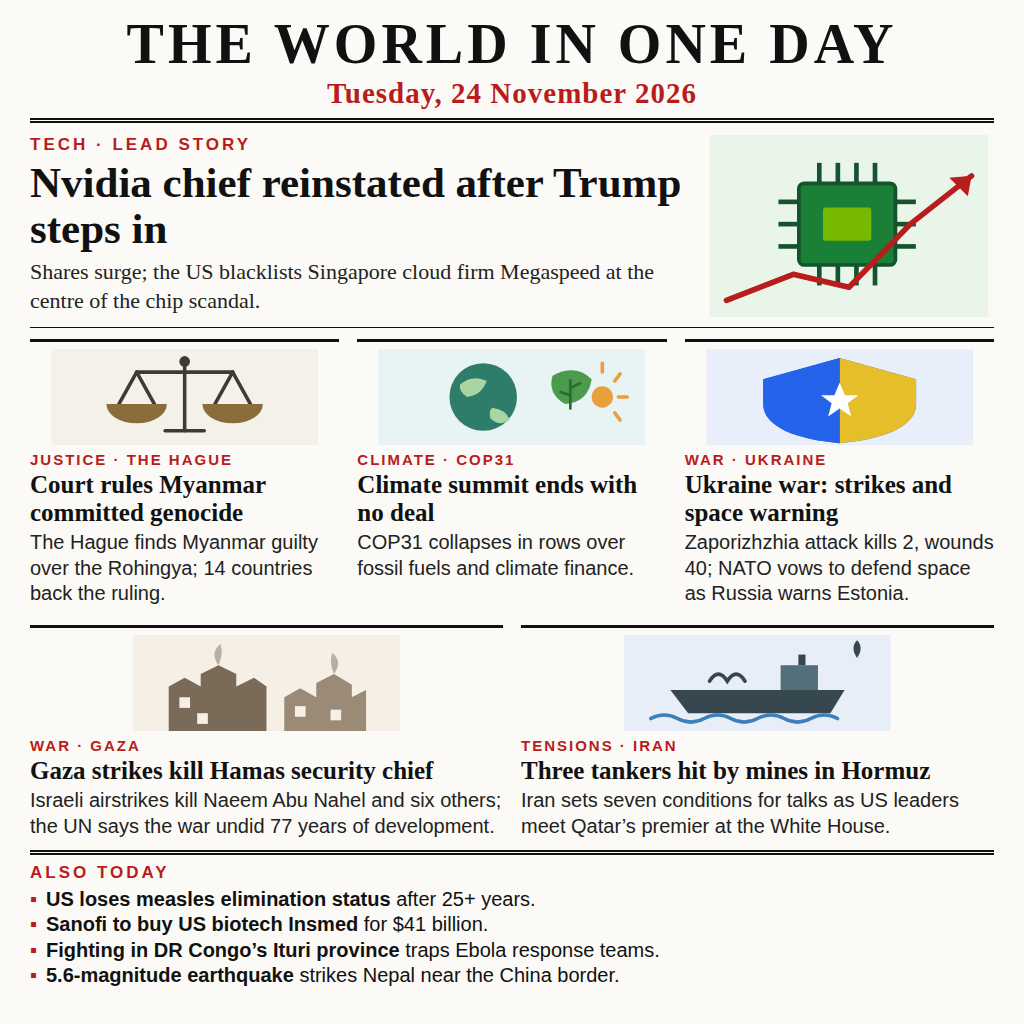
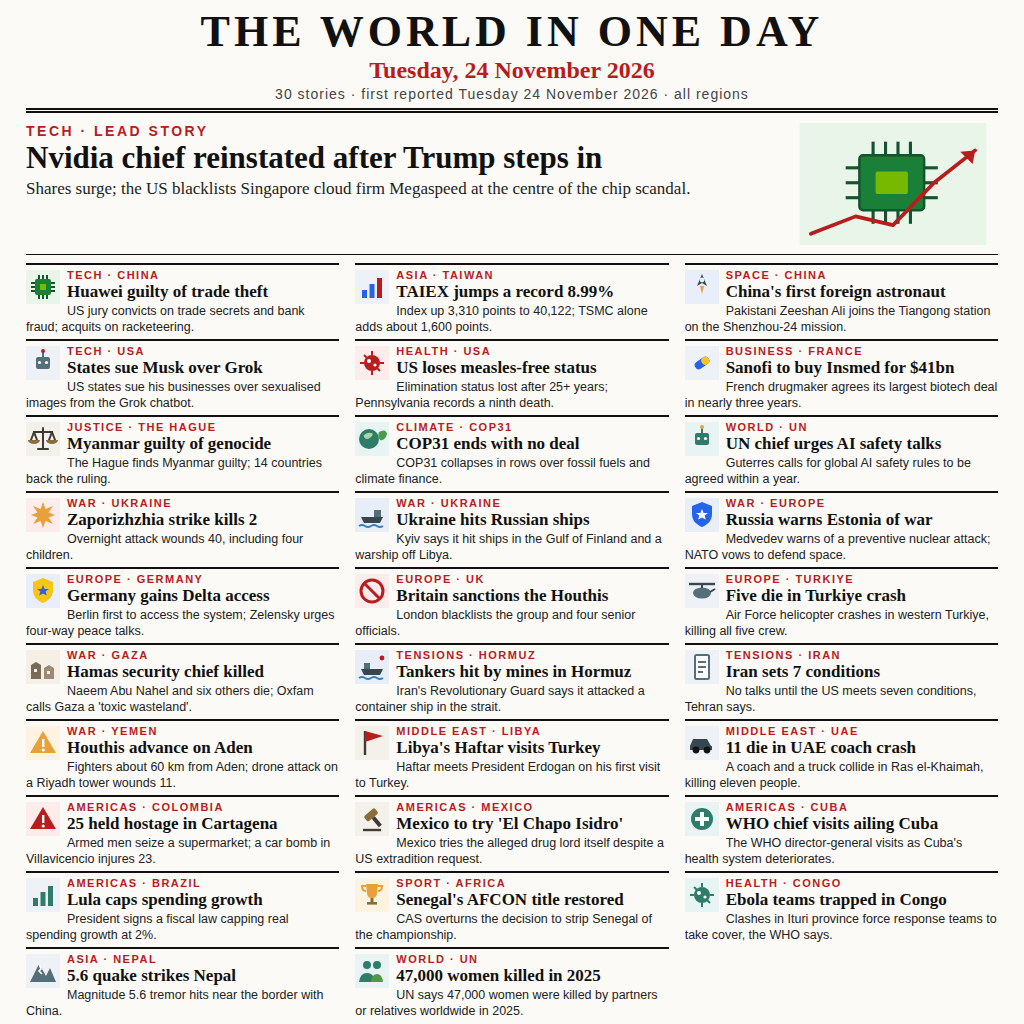
v2: 30 dated stories across all regions

Changed region(s): [[0.0312, 0.0, 0.9688, 1.0]]

diff --git a/page.html b/page.html
@@ -10,40 +10,28 @@
     font-family: Georgia, 'Times New Roman', serif;
     background: #fbfaf6;
     color: #111;
-    padding: 16px 30px 12px;
+    padding: 10px 26px 8px;
     display: flex;
     flex-direction: column;
   }
-  /* ---------- Masthead ---------- */
-  header { text-align: center; border-bottom: 5px double #111; padding-bottom: 8px; }
-  .name { font-size: 56px; font-weight: 900; letter-spacing: 4px; line-height: 1.02; }
-  .date { font-size: 29px; font-weight: 700; letter-spacing: 1px; margin-top: 4px; }
+  header { text-align: center; border-bottom: 5px double #111; padding-bottom: 6px; }
+  .name { font-size: 44px; font-weight: 900; letter-spacing: 4px; line-height: 1.02; }
+  .date { font-size: 24px; font-weight: 700; margin-top: 2px; }
   .date span { color: #b91c1c; }
-  /* ---------- Lead story ---------- */
-  .lead { display: flex; gap: 22px; padding: 12px 0 10px; border-bottom: 1px solid #111; }
+  .sub { font-family: Arial, Helvetica, sans-serif; font-size: 14px; letter-spacing: 1px; color: #444; margin-top: 2px; }
+  .lead { display: flex; gap: 18px; padding: 10px 0 9px; border-bottom: 1px solid #111; }
   .lead-text { flex: 1; }
-  .kicker { font-family: Arial, Helvetica, sans-serif; font-size: 17px; font-weight: 800; letter-spacing: 3px; color: #b91c1c; text-transform: uppercase; }
-  .lead h1 { font-size: 43px; line-height: 1.06; font-weight: 900; margin: 5px 0 7px; }
-  .lead p { font-size: 22px; line-height: 1.3; color: #222; }
-  .lead-art { width: 290px; height: 182px; flex: none; }
+  .kicker { font-family: Arial, Helvetica, sans-serif; font-size: 14px; font-weight: 800; letter-spacing: 2.5px; color: #b91c1c; text-transform: uppercase; }
+  .lead h1 { font-size: 31px; line-height: 1.05; font-weight: 900; margin: 3px 0 4px; }
+  .lead p { font-size: 17px; line-height: 1.28; color: #222; }
+  .lead-art { width: 210px; height: 122px; flex: none; }
   .lead-art svg { width: 100%; height: 100%; display: block; }
-  /* ---------- Story grid ---------- */
-  .grid { display: grid; grid-template-columns: repeat(6, 1fr); gap: 18px; padding: 11px 0 10px; border-bottom: 5px double #111; }
-  .card { border-top: 3px solid #111; padding-top: 7px; }
-  .card.w2 { grid-column: span 2; }
-  .card.w3 { grid-column: span 3; }
-  .card .art { width: 100%; height: 96px; margin-bottom: 6px; }
-  .card .art svg { width: 100%; height: 100%; display: block; }
-  .card .kicker { font-size: 15px; letter-spacing: 2px; }
-  .card h2 { font-size: 25px; line-height: 1.1; font-weight: 900; margin: 3px 0 4px; }
-  .card p { font-family: Arial, Helvetica, sans-serif; font-size: 20px; line-height: 1.28; color: #222; }
-  /* ---------- Bottom strip ---------- */
-  .strip { padding-top: 8px; }
-  .strip .label { font-family: Arial, Helvetica, sans-serif; font-size: 17px; font-weight: 800; letter-spacing: 3px; color: #b91c1c; text-transform: uppercase; margin-bottom: 4px; }
-  .strip ul { list-style: none; }
-  .strip li { font-family: Arial, Helvetica, sans-serif; font-size: 20px; line-height: 1.28; padding-left: 16px; position: relative; }
-  .strip li::before { content: "▪"; position: absolute; left: 0; color: #b91c1c; }
-  .strip li b { font-weight: 800; }
+  .grid { flex: 1; display: grid; grid-template-columns: repeat(3, 1fr); gap: 4px 16px; padding: 8px 0 0; align-content: space-between; }
+  .cell { border-top: 2px solid #111; padding-top: 4px; overflow: hidden; }
+  .cell .ic { float: left; width: 34px; height: 34px; margin: 1px 7px 2px 0; }
+  .cell .kick { font-family: Arial, Helvetica, sans-serif; font-size: 11px; font-weight: 800; letter-spacing: 1.5px; color: #b91c1c; text-transform: uppercase; }
+  .cell h3 { font-size: 17px; line-height: 1.12; font-weight: 900; margin: 1px 0 2px; }
+  .cell p { font-family: Arial, Helvetica, sans-serif; font-size: 12.5px; line-height: 1.28; color: #222; }
 </style>
 </head>
 <body>
@@ -51,6 +39,7 @@
 <header>
   <div class="name">THE WORLD IN ONE DAY</div>
   <div class="date"><span>Tuesday, 24 November 2026</span></div>
+  <div class="sub">30 stories &middot; first reported Tuesday 24 November 2026 &middot; all regions</div>
 </header>
 
 <section class="lead">
@@ -80,107 +69,151 @@
 </section>
 
 <section class="grid">
-  <article class="card w2">
-    <div class="art">
-      <svg viewBox="0 0 300 108" xmlns="http://www.w3.org/2000/svg" role="img" aria-label="Scales of justice">
-        <rect width="300" height="108" fill="#f4f1ea"/>
-        <g stroke="#3f3a33" stroke-width="4" fill="none" stroke-linecap="round">
-          <line x1="150" y1="14" x2="150" y2="92"/>
-          <line x1="96" y1="26" x2="204" y2="26"/>
-          <line x1="96" y1="26" x2="76" y2="62"/><line x1="96" y1="26" x2="116" y2="62"/>
-          <line x1="204" y1="26" x2="184" y2="62"/><line x1="204" y1="26" x2="224" y2="62"/>
-          <line x1="128" y1="92" x2="172" y2="92"/>
-        </g>
-        <path d="M62 62 A22 14 0 0 0 130 62 Z" fill="#8a6d3b"/>
-        <path d="M170 62 A22 14 0 0 0 238 62 Z" fill="#8a6d3b"/>
-        <circle cx="150" cy="14" r="6" fill="#3f3a33"/>
-      </svg>
-    </div>
-    <div class="kicker">Justice &middot; The Hague</div>
-    <h2>Court rules Myanmar committed genocide</h2>
-    <p>The Hague finds Myanmar guilty over the Rohingya; 14 countries back the ruling.</p>
+  <article class="cell"><svg class="ic" viewBox="0 0 34 34" xmlns="http://www.w3.org/2000/svg"><rect width="34" height="34" fill="#e9f5e9"/><rect x="9" y="9" width="16" height="16" rx="2" fill="#1a7f37"/><rect x="14" y="14" width="6" height="6" fill="#76b900"/><g stroke="#14532d" stroke-width="2"><line x1="13" y1="9" x2="13" y2="5"/><line x1="17" y1="9" x2="17" y2="5"/><line x1="21" y1="9" x2="21" y2="5"/><line x1="13" y1="25" x2="13" y2="29"/><line x1="17" y1="25" x2="17" y2="29"/><line x1="21" y1="25" x2="21" y2="29"/><line x1="9" y1="13" x2="5" y2="13"/><line x1="9" y1="17" x2="5" y2="17"/><line x1="9" y1="21" x2="5" y2="21"/><line x1="25" y1="13" x2="29" y2="13"/><line x1="25" y1="17" x2="29" y2="17"/><line x1="25" y1="21" x2="29" y2="21"/></g></svg>
+    <div class="kick">TECH · CHINA</div>
+    <h3>Huawei guilty of trade theft</h3>
+    <p>US jury convicts on trade secrets and bank fraud; acquits on racketeering.</p>
   </article>
-
-  <article class="card w2">
-    <div class="art">
-      <svg viewBox="0 0 300 108" xmlns="http://www.w3.org/2000/svg" role="img" aria-label="Globe with a leaf">
-        <rect width="300" height="108" fill="#e8f3f3"/>
-        <circle cx="118" cy="54" r="38" fill="#2e7d6b"/>
-        <path d="M92 40 q14 -12 30 -4 q-6 16 -22 18 q-10 -6 -8 -14z" fill="#a8d5a2"/>
-        <path d="M128 66 q16 2 20 14 q-12 8 -22 -2 q-2 -8 2 -12z" fill="#a8d5a2"/>
-        <path d="M196 30 q26 -14 44 4 q-4 26 -30 28 q-20 -12 -14 -32z" fill="#4c9a4c"/>
-        <path d="M216 34 l0 34 M216 44 l12 -6 M216 52 l-12 -4" stroke="#2f6b2f" stroke-width="3" fill="none"/>
-        <g stroke="#e8a13a" stroke-width="4" stroke-linecap="round">
-          <line x1="252" y1="16" x2="252" y2="26"/><line x1="272" y1="28" x2="266" y2="36"/>
-          <line x1="280" y1="54" x2="270" y2="54"/><line x1="272" y1="80" x2="266" y2="72"/>
-        </g>
-        <circle cx="252" cy="54" r="12" fill="#e8a13a"/>
-      </svg>
-    </div>
-    <div class="kicker">Climate &middot; COP31</div>
-    <h2>Climate summit ends with no deal</h2>
+  <article class="cell"><svg class="ic" viewBox="0 0 34 34" xmlns="http://www.w3.org/2000/svg"><rect width="34" height="34" fill="#eef2f7"/><rect x="7" y="20" width="5" height="8" fill="#2563eb"/><rect x="14.5" y="14" width="5" height="14" fill="#2563eb"/><rect x="22" y="8" width="5" height="20" fill="#b91c1c"/></svg>
+    <div class="kick">ASIA · TAIWAN</div>
+    <h3>TAIEX jumps a record 8.99%</h3>
+    <p>Index up 3,310 points to 40,122; TSMC alone adds about 1,600 points.</p>
+  </article>
+  <article class="cell"><svg class="ic" viewBox="0 0 34 34" xmlns="http://www.w3.org/2000/svg"><rect width="34" height="34" fill="#e9effa"/><path d="M17 4 L22 16 L17 13 L12 16 Z" fill="#37474f"/><circle cx="17" cy="10" r="2.4" fill="#e8eef7"/><path d="M15 16 L17 24 L19 16 Z" fill="#e8a13a"/></svg>
+    <div class="kick">SPACE · CHINA</div>
+    <h3>China's first foreign astronaut</h3>
+    <p>Pakistani Zeeshan Ali joins the Tiangong station on the Shenzhou-24 mission.</p>
+  </article>
+  <article class="cell"><svg class="ic" viewBox="0 0 34 34" xmlns="http://www.w3.org/2000/svg"><rect width="34" height="34" fill="#eef2f7"/><rect x="10" y="11" width="14" height="12" rx="2" fill="#546e7a"/><line x1="17" y1="11" x2="17" y2="6" stroke="#546e7a" stroke-width="2"/><circle cx="17" cy="5" r="2" fill="#b91c1c"/><circle cx="13.5" cy="16.5" r="1.6" fill="#fff"/><circle cx="20.5" cy="16.5" r="1.6" fill="#fff"/></svg>
+    <div class="kick">TECH · USA</div>
+    <h3>States sue Musk over Grok</h3>
+    <p>US states sue his businesses over sexualised images from the Grok chatbot.</p>
+  </article>
+  <article class="cell"><svg class="ic" viewBox="0 0 34 34" xmlns="http://www.w3.org/2000/svg"><rect width="34" height="34" fill="#fdecec"/><circle cx="17" cy="17" r="8" fill="#b91c1c"/><g stroke="#b91c1c" stroke-width="2"><line x1="17" y1="5" x2="17" y2="9"/><line x1="17" y1="25" x2="17" y2="29"/><line x1="5" y1="17" x2="9" y2="17"/><line x1="25" y1="17" x2="29" y2="17"/><line x1="9" y1="9" x2="12" y2="12"/><line x1="22" y1="22" x2="25" y2="25"/></g><circle cx="14" cy="15" r="2" fill="#fff"/><circle cx="20" cy="19" r="1.6" fill="#fff"/></svg>
+    <div class="kick">HEALTH · USA</div>
+    <h3>US loses measles-free status</h3>
+    <p>Elimination status lost after 25+ years; Pennsylvania records a ninth death.</p>
+  </article>
+  <article class="cell"><svg class="ic" viewBox="0 0 34 34" xmlns="http://www.w3.org/2000/svg"><rect width="34" height="34" fill="#eef2f7"/><g transform="rotate(-35 17 17)"><rect x="9" y="13" width="16" height="8" rx="4" fill="#2563eb"/><rect x="17" y="13" width="8" height="8" rx="4" fill="#f5c518"/></g></svg>
+    <div class="kick">BUSINESS · FRANCE</div>
+    <h3>Sanofi to buy Insmed for $41bn</h3>
+    <p>French drugmaker agrees its largest biotech deal in nearly three years.</p>
+  </article>
+  <article class="cell"><svg class="ic" viewBox="0 0 34 34" xmlns="http://www.w3.org/2000/svg"><rect width="34" height="34" fill="#f4f1ea"/><g stroke="#3f3a33" stroke-width="2" fill="none" stroke-linecap="round"><line x1="17" y1="6" x2="17" y2="27"/><line x1="8" y1="10" x2="26" y2="10"/><line x1="8" y1="10" x2="5" y2="18"/><line x1="8" y1="10" x2="11" y2="18"/><line x1="26" y1="10" x2="23" y2="18"/><line x1="26" y1="10" x2="29" y2="18"/><line x1="12" y1="27" x2="22" y2="27"/></g><path d="M2 18 A4.5 3 0 0 0 14 18 Z" fill="#8a6d3b"/><path d="M20 18 A4.5 3 0 0 0 32 18 Z" fill="#8a6d3b"/></svg>
+    <div class="kick">JUSTICE · THE HAGUE</div>
+    <h3>Myanmar guilty of genocide</h3>
+    <p>The Hague finds Myanmar guilty; 14 countries back the ruling.</p>
+  </article>
+  <article class="cell"><svg class="ic" viewBox="0 0 34 34" xmlns="http://www.w3.org/2000/svg"><rect width="34" height="34" fill="#e8f3f3"/><circle cx="14" cy="17" r="10" fill="#2e7d6b"/><path d="M9 13 q5 -4 9 -1 q-2 5 -7 5 q-3 -2 -2 -4z" fill="#a8d5a2"/><path d="M24 10 q7 -4 8 2 q-2 7 -7 6 q-3 -4 -1 -8z" fill="#4c9a4c"/></svg>
+    <div class="kick">CLIMATE · COP31</div>
+    <h3>COP31 ends with no deal</h3>
     <p>COP31 collapses in rows over fossil fuels and climate finance.</p>
   </article>
-
-  <article class="card w2">
-    <div class="art">
-      <svg viewBox="0 0 300 108" xmlns="http://www.w3.org/2000/svg" role="img" aria-label="Shield with a star">
-        <rect width="300" height="108" fill="#e9effa"/>
-        <path d="M150 10 L236 34 V62 C236 88 198 102 150 106 C102 102 64 88 64 62 V34 Z" fill="#2563eb"/>
-        <path d="M150 10 L236 34 V62 C236 88 198 102 150 106 Z" fill="#f5c518" opacity="0.92"/>
-        <path d="M150 10 L150 106 C102 102 64 88 64 62 V34 Z" fill="#2563eb"/>
-        <polygon points="150,38 156,52 171,52 159,61 163,76 150,67 137,76 141,61 129,52 144,52" fill="#ffffff"/>
-      </svg>
-    </div>
-    <div class="kicker">War &middot; Ukraine</div>
-    <h2>Ukraine war: strikes and space warning</h2>
-    <p>Zaporizhzhia attack kills 2, wounds 40; NATO vows to defend space as Russia warns Estonia.</p>
+  <article class="cell"><svg class="ic" viewBox="0 0 34 34" xmlns="http://www.w3.org/2000/svg"><rect width="34" height="34" fill="#e8f3f3"/><rect x="10" y="11" width="14" height="12" rx="2" fill="#2e7d6b"/><line x1="17" y1="11" x2="17" y2="6" stroke="#2e7d6b" stroke-width="2"/><circle cx="17" cy="5" r="2" fill="#e8a13a"/><circle cx="13.5" cy="16.5" r="1.6" fill="#fff"/><circle cx="20.5" cy="16.5" r="1.6" fill="#fff"/></svg>
+    <div class="kick">WORLD · UN</div>
+    <h3>UN chief urges AI safety talks</h3>
+    <p>Guterres calls for global AI safety rules to be agreed within a year.</p>
   </article>
-
-  <article class="card w3">
-    <div class="art">
-      <svg viewBox="0 0 300 108" xmlns="http://www.w3.org/2000/svg" role="img" aria-label="Damaged buildings with smoke">
-        <rect width="300" height="108" fill="#f5efe6"/>
-        <path d="M40 108 V58 L58 48 L76 58 V44 L96 34 L116 44 V58 L136 48 L150 58 V108 Z" fill="#7a6a58"/>
-        <path d="M170 108 V70 L188 60 L206 70 V54 L226 44 L246 56 V70 L262 62 V108 Z" fill="#9a8a76"/>
-        <path d="M96 34 q-10 -14 2 -24 q4 10 -2 24z M226 44 q10 -14 -2 -24 q-4 10 2 24z" fill="#b8b0a2"/>
-        <rect x="52" y="70" width="12" height="12" fill="#f5efe6"/>
-        <rect x="72" y="88" width="12" height="12" fill="#f5efe6"/>
-        <rect x="182" y="80" width="12" height="12" fill="#f5efe6"/>
-        <rect x="222" y="84" width="12" height="12" fill="#f5efe6"/>
-      </svg>
-    </div>
-    <div class="kicker">War &middot; Gaza</div>
-    <h2>Gaza strikes kill Hamas security chief</h2>
-    <p>Israeli airstrikes kill Naeem Abu Nahel and six others; the UN says the war undid 77 years of development.</p>
+  <article class="cell"><svg class="ic" viewBox="0 0 34 34" xmlns="http://www.w3.org/2000/svg"><rect width="34" height="34" fill="#fdecec"/><polygon points="17,4 19.5,11 27,8 22.5,14.5 29,17 22.5,19.5 27,26 19.5,23 17,30 14.5,23 7,26 11.5,19.5 5,17 11.5,14.5 7,8 14.5,11" fill="#e8a13a"/></svg>
+    <div class="kick">WAR · UKRAINE</div>
+    <h3>Zaporizhzhia strike kills 2</h3>
+    <p>Overnight attack wounds 40, including four children.</p>
   </article>
-
-  <article class="card w3">
-    <div class="art">
-      <svg viewBox="0 0 300 108" xmlns="http://www.w3.org/2000/svg" role="img" aria-label="Oil tanker on waves">
-        <rect width="300" height="108" fill="#e8eef7"/>
-        <path d="M52 62 L248 62 L232 88 L72 88 Z" fill="#37474f"/>
-        <rect x="176" y="34" width="42" height="28" fill="#546e7a"/>
-        <rect x="196" y="22" width="8" height="12" fill="#37474f"/>
-        <path d="M96 52 q10 -16 20 0 q10 -16 20 0" fill="none" stroke="#37474f" stroke-width="4" stroke-linecap="round"/>
-        <path d="M30 94 q15 -8 30 0 t30 0 t30 0 t30 0 t30 0 t30 0 t30 0" fill="none" stroke="#3f7fb8" stroke-width="4" stroke-linecap="round"/>
-        <path d="M262 26 q8 -12 0 -20 q-8 8 0 20z" fill="#37474f"/>
-      </svg>
-    </div>
-    <div class="kicker">Tensions &middot; Iran</div>
-    <h2>Three tankers hit by mines in Hormuz</h2>
-    <p>Iran sets seven conditions for talks as US leaders meet Qatar&rsquo;s premier at the White House.</p>
+  <article class="cell"><svg class="ic" viewBox="0 0 34 34" xmlns="http://www.w3.org/2000/svg"><rect width="34" height="34" fill="#e8eef7"/><path d="M6 19 L28 19 L25 25 L9 25 Z" fill="#37474f"/><rect x="19" y="12" width="7" height="7" fill="#546e7a"/><path d="M4 28 q3 -2 6 0 t6 0 t6 0 t6 0" fill="none" stroke="#3f7fb8" stroke-width="2"/></svg>
+    <div class="kick">WAR · UKRAINE</div>
+    <h3>Ukraine hits Russian ships</h3>
+    <p>Kyiv says it hit ships in the Gulf of Finland and a warship off Libya.</p>
   </article>
-</section>
-
-<section class="strip">
-  <div class="label">Also Today</div>
-  <ul>
-    <li><b>US loses measles elimination status</b> after 25+ years.</li>
-    <li><b>Sanofi to buy US biotech Insmed</b> for $41 billion.</li>
-    <li><b>Fighting in DR Congo&rsquo;s Ituri province</b> traps Ebola response teams.</li>
-    <li><b>5.6-magnitude earthquake</b> strikes Nepal near the China border.</li>
-  </ul>
+  <article class="cell"><svg class="ic" viewBox="0 0 34 34" xmlns="http://www.w3.org/2000/svg"><rect width="34" height="34" fill="#e9effa"/><path d="M17 4 L27 8 V16 C27 23 22 27 17 29 C12 27 7 23 7 16 V8 Z" fill="#2563eb"/><polygon points="17,11 18.6,15 23,15 19.6,17.6 20.8,21.6 17,19.4 13.2,21.6 14.4,17.6 11,15 15.4,15" fill="#fff"/></svg>
+    <div class="kick">WAR · EUROPE</div>
+    <h3>Russia warns Estonia of war</h3>
+    <p>Medvedev warns of a preventive nuclear attack; NATO vows to defend space.</p>
+  </article>
+  <article class="cell"><svg class="ic" viewBox="0 0 34 34" xmlns="http://www.w3.org/2000/svg"><rect width="34" height="34" fill="#e9effa"/><path d="M17 4 L27 8 V16 C27 23 22 27 17 29 C12 27 7 23 7 16 V8 Z" fill="#f5c518"/><polygon points="17,11 18.6,15 23,15 19.6,17.6 20.8,21.6 17,19.4 13.2,21.6 14.4,17.6 11,15 15.4,15" fill="#2563eb"/></svg>
+    <div class="kick">EUROPE · GERMANY</div>
+    <h3>Germany gains Delta access</h3>
+    <p>Berlin first to access the system; Zelensky urges four-way peace talks.</p>
+  </article>
+  <article class="cell"><svg class="ic" viewBox="0 0 34 34" xmlns="http://www.w3.org/2000/svg"><rect width="34" height="34" fill="#fdecec"/><circle cx="17" cy="17" r="11" fill="none" stroke="#b91c1c" stroke-width="3"/><line x1="9" y1="9" x2="25" y2="25" stroke="#b91c1c" stroke-width="3"/></svg>
+    <div class="kick">EUROPE · UK</div>
+    <h3>Britain sanctions the Houthis</h3>
+    <p>London blacklists the group and four senior officials.</p>
+  </article>
+  <article class="cell"><svg class="ic" viewBox="0 0 34 34" xmlns="http://www.w3.org/2000/svg"><rect width="34" height="34" fill="#eef2f7"/><ellipse cx="17" cy="19" rx="9" ry="5.5" fill="#546e7a"/><line x1="4" y1="10" x2="30" y2="10" stroke="#37474f" stroke-width="2.4"/><line x1="17" y1="10" x2="17" y2="14" stroke="#37474f" stroke-width="2"/><line x1="25" y1="18" x2="30" y2="15" stroke="#37474f" stroke-width="2"/></svg>
+    <div class="kick">EUROPE · TURKIYE</div>
+    <h3>Five die in Turkiye crash</h3>
+    <p>Air Force helicopter crashes in western Turkiye, killing all five crew.</p>
+  </article>
+  <article class="cell"><svg class="ic" viewBox="0 0 34 34" xmlns="http://www.w3.org/2000/svg"><rect width="34" height="34" fill="#f5efe6"/><path d="M5 29 V15 L10 12 L15 15 V29 Z" fill="#7a6a58"/><path d="M18 29 V18 L23 15 L28 18 V29 Z" fill="#9a8a76"/><rect x="8" y="19" width="3" height="3" fill="#f5efe6"/><rect x="21" y="21" width="3" height="3" fill="#f5efe6"/></svg>
+    <div class="kick">WAR · GAZA</div>
+    <h3>Hamas security chief killed</h3>
+    <p>Naeem Abu Nahel and six others die; Oxfam calls Gaza a 'toxic wasteland'.</p>
+  </article>
+  <article class="cell"><svg class="ic" viewBox="0 0 34 34" xmlns="http://www.w3.org/2000/svg"><rect width="34" height="34" fill="#e8eef7"/><path d="M6 19 L28 19 L25 25 L9 25 Z" fill="#37474f"/><rect x="9" y="13" width="6" height="6" fill="#546e7a"/><path d="M4 28 q3 -2 6 0 t6 0 t6 0 t6 0" fill="none" stroke="#3f7fb8" stroke-width="2"/><circle cx="27" cy="8" r="2.4" fill="#b91c1c"/></svg>
+    <div class="kick">TENSIONS · HORMUZ</div>
+    <h3>Tankers hit by mines in Hormuz</h3>
+    <p>Iran's Revolutionary Guard says it attacked a container ship in the strait.</p>
+  </article>
+  <article class="cell"><svg class="ic" viewBox="0 0 34 34" xmlns="http://www.w3.org/2000/svg"><rect width="34" height="34" fill="#eef2f7"/><rect x="10" y="5" width="14" height="24" rx="1.5" fill="#fff" stroke="#546e7a" stroke-width="2"/><line x1="13" y1="12" x2="21" y2="12" stroke="#546e7a" stroke-width="2"/><line x1="13" y1="17" x2="21" y2="17" stroke="#546e7a" stroke-width="2"/><line x1="13" y1="22" x2="18" y2="22" stroke="#546e7a" stroke-width="2"/></svg>
+    <div class="kick">TENSIONS · IRAN</div>
+    <h3>Iran sets 7 conditions</h3>
+    <p>No talks until the US meets seven conditions, Tehran says.</p>
+  </article>
+  <article class="cell"><svg class="ic" viewBox="0 0 34 34" xmlns="http://www.w3.org/2000/svg"><rect width="34" height="34" fill="#fdf3e0"/><path d="M17 5 L30 27 L4 27 Z" fill="#e8a13a"/><rect x="16" y="13" width="2.4" height="8" fill="#fff"/><circle cx="17.2" cy="24" r="1.6" fill="#fff"/></svg>
+    <div class="kick">WAR · YEMEN</div>
+    <h3>Houthis advance on Aden</h3>
+    <p>Fighters about 60 km from Aden; drone attack on a Riyadh tower wounds 11.</p>
+  </article>
+  <article class="cell"><svg class="ic" viewBox="0 0 34 34" xmlns="http://www.w3.org/2000/svg"><rect width="34" height="34" fill="#f4f1ea"/><line x1="10" y1="5" x2="10" y2="29" stroke="#3f3a33" stroke-width="2.4"/><path d="M10 5 L28 10 L10 16 Z" fill="#b91c1c"/></svg>
+    <div class="kick">MIDDLE EAST · LIBYA</div>
+    <h3>Libya's Haftar visits Turkey</h3>
+    <p>Haftar meets President Erdogan on his first visit to Turkey.</p>
+  </article>
+  <article class="cell"><svg class="ic" viewBox="0 0 34 34" xmlns="http://www.w3.org/2000/svg"><rect width="34" height="34" fill="#eef2f7"/><path d="M5 20 L8 13 L22 13 L26 20 L27 20 L27 24 L5 24 Z" fill="#37474f"/><circle cx="11" cy="24" r="3.4" fill="#111"/><circle cx="22" cy="24" r="3.4" fill="#111"/></svg>
+    <div class="kick">MIDDLE EAST · UAE</div>
+    <h3>11 die in UAE coach crash</h3>
+    <p>A coach and a truck collide in Ras el-Khaimah, killing eleven people.</p>
+  </article>
+  <article class="cell"><svg class="ic" viewBox="0 0 34 34" xmlns="http://www.w3.org/2000/svg"><rect width="34" height="34" fill="#fdecec"/><path d="M17 5 L30 27 L4 27 Z" fill="#b91c1c"/><rect x="16" y="13" width="2.4" height="8" fill="#fff"/><circle cx="17.2" cy="24" r="1.6" fill="#fff"/></svg>
+    <div class="kick">AMERICAS · COLOMBIA</div>
+    <h3>25 held hostage in Cartagena</h3>
+    <p>Armed men seize a supermarket; a car bomb in Villavicencio injures 23.</p>
+  </article>
+  <article class="cell"><svg class="ic" viewBox="0 0 34 34" xmlns="http://www.w3.org/2000/svg"><rect width="34" height="34" fill="#f4f1ea"/><g transform="rotate(-40 17 14)"><rect x="10" y="9" width="14" height="7" rx="2" fill="#8a6d3b"/><rect x="15" y="16" width="4" height="11" fill="#3f3a33"/></g><line x1="8" y1="28" x2="26" y2="28" stroke="#3f3a33" stroke-width="2.4"/></svg>
+    <div class="kick">AMERICAS · MEXICO</div>
+    <h3>Mexico to try 'El Chapo Isidro'</h3>
+    <p>Mexico tries the alleged drug lord itself despite a US extradition request.</p>
+  </article>
+  <article class="cell"><svg class="ic" viewBox="0 0 34 34" xmlns="http://www.w3.org/2000/svg"><rect width="34" height="34" fill="#e8f3f3"/><circle cx="17" cy="17" r="11" fill="#2e7d6b"/><rect x="15" y="10" width="4" height="14" fill="#fff"/><rect x="10" y="15" width="14" height="4" fill="#fff"/></svg>
+    <div class="kick">AMERICAS · CUBA</div>
+    <h3>WHO chief visits ailing Cuba</h3>
+    <p>The WHO director-general visits as Cuba's health system deteriorates.</p>
+  </article>
+  <article class="cell"><svg class="ic" viewBox="0 0 34 34" xmlns="http://www.w3.org/2000/svg"><rect width="34" height="34" fill="#eef2f7"/><rect x="7" y="20" width="5" height="8" fill="#2e7d6b"/><rect x="14.5" y="14" width="5" height="14" fill="#2e7d6b"/><rect x="22" y="8" width="5" height="20" fill="#2e7d6b"/></svg>
+    <div class="kick">AMERICAS · BRAZIL</div>
+    <h3>Lula caps spending growth</h3>
+    <p>President signs a fiscal law capping real spending growth at 2%.</p>
+  </article>
+  <article class="cell"><svg class="ic" viewBox="0 0 34 34" xmlns="http://www.w3.org/2000/svg"><rect width="34" height="34" fill="#fdf3e0"/><path d="M11 6 L23 6 L22 15 Q22 20 17 20 Q12 20 12 15 Z" fill="#e8a13a"/><path d="M11 8 L7 8 Q7 13 11 13 M23 8 L27 8 Q27 13 23 13" fill="none" stroke="#e8a13a" stroke-width="2"/><rect x="15.5" y="20" width="3" height="4" fill="#8a6d3b"/><rect x="12" y="24" width="10" height="2.6" fill="#8a6d3b"/></svg>
+    <div class="kick">SPORT · AFRICA</div>
+    <h3>Senegal's AFCON title restored</h3>
+    <p>CAS overturns the decision to strip Senegal of the championship.</p>
+  </article>
+  <article class="cell"><svg class="ic" viewBox="0 0 34 34" xmlns="http://www.w3.org/2000/svg"><rect width="34" height="34" fill="#e8f3f3"/><circle cx="17" cy="17" r="8" fill="#2e7d6b"/><g stroke="#2e7d6b" stroke-width="2"><line x1="17" y1="5" x2="17" y2="9"/><line x1="17" y1="25" x2="17" y2="29"/><line x1="5" y1="17" x2="9" y2="17"/><line x1="25" y1="17" x2="29" y2="17"/><line x1="9" y1="9" x2="12" y2="12"/><line x1="22" y1="22" x2="25" y2="25"/></g><circle cx="14" cy="15" r="2" fill="#fff"/><circle cx="20" cy="19" r="1.6" fill="#fff"/></svg>
+    <div class="kick">HEALTH · CONGO</div>
+    <h3>Ebola teams trapped in Congo</h3>
+    <p>Clashes in Ituri province force response teams to take cover, the WHO says.</p>
+  </article>
+  <article class="cell"><svg class="ic" viewBox="0 0 34 34" xmlns="http://www.w3.org/2000/svg"><rect width="34" height="34" fill="#eef2f7"/><path d="M4 28 L13 10 L20 22 L24 14 L30 28 Z" fill="#546e7a"/><path d="M13 10 L15 15 L13 17 L16 20" fill="none" stroke="#fff" stroke-width="1.6"/></svg>
+    <div class="kick">ASIA · NEPAL</div>
+    <h3>5.6 quake strikes Nepal</h3>
+    <p>Magnitude 5.6 tremor hits near the border with China.</p>
+  </article>
+  <article class="cell"><svg class="ic" viewBox="0 0 34 34" xmlns="http://www.w3.org/2000/svg"><rect width="34" height="34" fill="#e8f3f3"/><circle cx="12" cy="11" r="4" fill="#2e7d6b"/><circle cx="22" cy="11" r="4" fill="#2e7d6b"/><path d="M4 28 Q5 19 12 19 Q19 19 20 28 Z" fill="#2e7d6b"/><path d="M16 28 Q17 20 22 20 Q27 20 28 28 Z" fill="#4c9a4c"/></svg>
+    <div class="kick">WORLD · UN</div>
+    <h3>47,000 women killed in 2025</h3>
+    <p>UN says 47,000 women were killed by partners or relatives worldwide in 2025.</p>
+  </article>
 </section>
 
 </body>

diff --git a/README.md b/README.md
@@ -4,16 +4,38 @@
 [![rank](https://make.fun/badge/news-image-20261124/G123456-1/news-image-20261124/rank.svg)](https://make.fun/bounty/news-image-20261124/leaderboard?utm_source=github&utm_medium=readme&utm_campaign=news-image-20261124)
 [![reward](https://make.fun/badge/news-image-20261124/G123456-1/news-image-20261124/reward.svg)](https://make.fun/bounty/news-image-20261124?utm_source=github&utm_medium=readme&utm_campaign=news-image-20261124)
 
-A newspaper front page summing up the world's news for Tuesday, 24 November 2026, built as HTML/CSS and screenshotted so every word is real, crisp text. The six main stories:
+A newspaper front page summing up the world's news for Tuesday, 24 November 2026, built as HTML/CSS and screenshotted so every word is real, crisp text. Thirty stories, all first reported on 24 November 2026:
 
-1. **Nvidia** — Jensen Huang reinstated as chief executive after Donald Trump intervened; shares surged; the US blacklisted Singapore cloud firm Megaspeed at the centre of the Nvidia chip scandal. (Reuters / Bloomberg)
-2. **Myanmar / Rohingya** — The International Court of Justice ruled Myanmar committed genocide against the Rohingya; 14 countries affirmed the ruling. (ICJ / AP)
-3. **COP31** — The UN climate summit ended without a deal after disputes over fossil fuels and climate finance. (UN / Reuters)
-4. **Ukraine war** — An overnight Russian attack on Zaporizhzhia killed 2 and wounded 40, including 4 children; Ukraine said it struck a Russian warship off Libya; Russia warned Estonia its moves are on the verge of triggering open war; NATO vowed to defend space. (Reuters / AP)
-5. **Gaza** — Israeli airstrikes killed Hamas internal security chief Naeem Abu Nahel and six others; Oxfam said the assault turned Gaza into a "toxic wasteland"; the UN said the war undid 77 years of human development. (Reuters / AP / UN)
-6. **Iran** — Three oil tankers hit mines in the Strait of Hormuz; Iran said it will not negotiate until the US meets seven conditions; the US vice president and secretary of state met Qatar's prime minister at the White House about US-Iran talks. (Reuters / AP)
-
-Also today: the US lost measles elimination status after 25+ years; Sanofi agreed to buy US biotech Insmed for $41 billion; fighting in DR Congo's Ituri province trapped Ebola response teams; a 5.6-magnitude earthquake struck Nepal near the China border.
+1. **Nvidia (lead)** — Jensen Huang reinstated as chief executive after Donald Trump intervened; shares surged; the US blacklisted Singapore cloud firm Megaspeed at the centre of the chip scandal. (Reuters / Bloomberg)
+2. **Huawei** — A US jury found Huawei guilty of trade-secret theft and bank fraud, and acquitted it of racketeering. (Reuters)
+3. **Taiwan markets** — The TAIEX jumped a record 8.99% (+3,310 points) to 40,122 as Asian chip stocks surged; TSMC alone added about 1,600 points. (Reuters)
+4. **China / space** — China opened its Tiangong space station to a first foreign astronaut, Pakistani Zeeshan Ali. (AP)
+5. **Grok** — US states sued Elon Musk's businesses over sexualised images from the Grok chatbot. (Reuters)
+6. **Measles** — The US lost measles elimination status after 25+ years; Pennsylvania recorded a ninth measles death. (AP / Reuters)
+7. **Sanofi** — Sanofi agreed to buy US biotech Insmed for $41 billion. (Reuters)
+8. **Myanmar / Rohingya** — The International Court of Justice ruled Myanmar committed genocide against the Rohingya; 14 countries affirmed the ruling. (ICJ / AP)
+9. **COP31** — The UN climate summit ended without a deal after disputes over fossil fuels and climate finance. (UN / Reuters)
+10. **AI safety** — UN chief Guterres urged talks on global AI safety rules within a year. (UN)
+11. **Ukraine / Zaporizhzhia** — An overnight Russian attack killed 2 and wounded 40, including 4 children. (Reuters / AP)
+12. **Ukraine / sea** — Ukraine said it struck Russian ships in the Gulf of Finland and a Russian warship off Libya. (Reuters)
+13. **Russia / Estonia** — Russia warned Estonia its moves are on the verge of triggering open war; Medvedev warned of a preventive nuclear attack; NATO vowed to defend space after reports of a Russian nuclear satellite. (Reuters)
+14. **Germany / Ukraine** — Germany became the first country to gain access to Ukraine's Delta battlefield system; Zelensky urged four-way peace talks with Russia, Europe and the US. (Reuters)
+15. **Britain / Houthis** — Britain imposed sanctions on Yemen's Houthis and four senior officials. (Reuters)
+16. **Turkiye** — A Turkish Air Force helicopter crash killed five crew in western Turkiye. (AP)
+17. **Gaza** — Israeli airstrikes killed Hamas security chief Naeem Abu Nahel and six others; Oxfam called Gaza a "toxic wasteland"; the UN said the war undid 77 years of human development. (Reuters / AP / UN)
+18. **Hormuz** — Tankers hit mines in the Strait of Hormuz; Iran's Revolutionary Guard said it attacked a container ship there. (Reuters)
+19. **Iran** — Iran said it will not negotiate until the US meets seven conditions; the US vice president and secretary of state met Qatar's prime minister at the White House about US-Iran talks. (Reuters / AP)
+20. **Yemen** — Houthi fighters are about 60 km from Aden and ready to attack, Yemen's military said; a suspected Houthi drone attack on a Riyadh tower wounded at least 11. (Reuters)
+21. **Libya** — Commander Khalifa Haftar visited Turkey for the first time, to meet President Erdogan. (Reuters)
+22. **UAE** — Eleven people died in a coach-truck crash in Ras el-Khaimah, UAE. (AP)
+23. **Colombia** — Armed men held 25 hostages at a supermarket in Cartagena; a car bomb in Villavicencio injured 23. (AP)
+24. **Mexico** — Mexico will try alleged drug lord 'El Chapo Isidro' itself despite a US extradition request. (Reuters)
+25. **Cuba** — The WHO chief visited Cuba as its health system deteriorates. (WHO / AP)
+26. **Brazil** — Brazil's Lula signed a fiscal law with a 2% cap on real spending growth. (Reuters)
+27. **AFCON** — Sports court CAS restored Senegal as Africa Cup of Nations champions, overturning the decision to strip them of the title. (AP)
+28. **DR Congo** — Fighting in Ituri province trapped Ebola response teams, the WHO said. (WHO / UN)
+29. **Nepal** — A 5.6-magnitude earthquake struck Nepal near the China border. (AP)
+30. **Femicide** — The UN said 47,000 women were killed by partners or relatives worldwide in 2025. (UN)
 
 `main.ts` (Node 22, standard library only) copies the bundled `entry.png` to `$MAKEFUN_OUTPUT_DIR/entry.png`. The image was rendered from `page.html` with Playwright (`shot.js`); all illustrations are hand-drawn SVG shapes — no photographs, no faces of real people, no text inside the illustrations.
 
